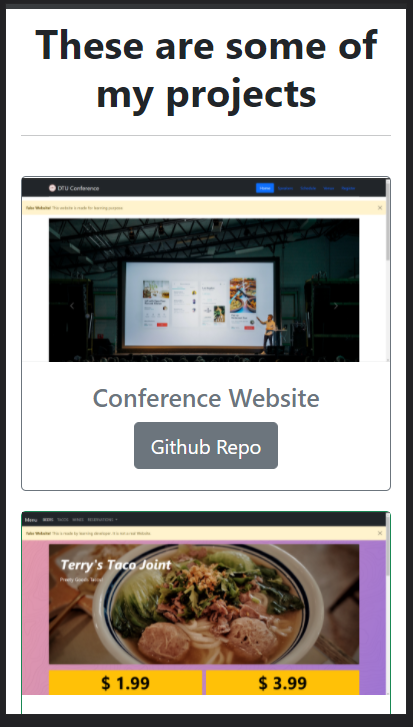
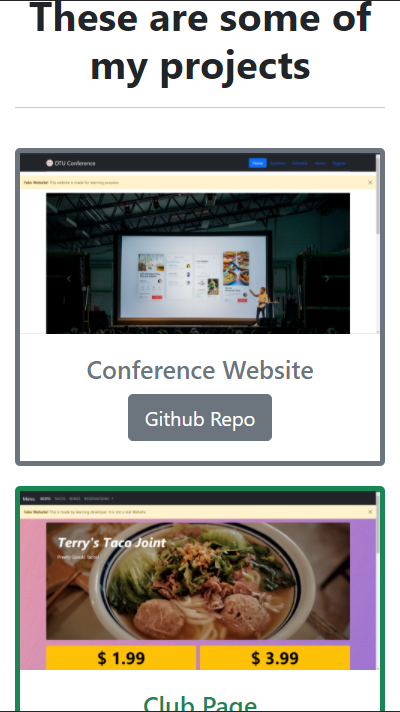
change border size in cards

diff --git a/index.html b/index.html
@@ -62,7 +62,7 @@
             </div>
 
             <div class=" col-xl-6">
-                <div class="card border-secondary">
+                <div class="card border-secondary border-4">
                     <img src="imgs/Conference-w-1.png" class=" img-fluid" alt="..." >
                     <div class="card-body text-secondary">
                         <h5 class="card-title">Conference Website</h5>
@@ -72,7 +72,7 @@
             </div>
 
             <div class=" col-xl-6">
-                <div class="card border-success" >
+                <div class="card border-success border-4" >
                     <img src="imgs/ResponsiveWebsite-w-1.png" class=" img-fluid" alt="..." >
                     <div class="card-body text-success">
                         <h5 class="card-title">Club Page</h5>
@@ -82,7 +82,7 @@
             </div>
 
             <div class=" col-xl-6">
-                <div class="card border-primary" >
+                <div class="card border-primary border-4" >
                     <img src="imgs/MyTunes-w-1.png" class=" img-fluid" alt="..." >
                     <div class="card-body text-primary">
                         <h5 class="card-title">Music Subcription Page</h5>
@@ -92,7 +92,7 @@
             </div>
 
             <div class=" col-xl-6">
-                <div class="card border-info" >
+                <div class="card border-info border-4" >
                     <img src="imgs/LandingPage-1.png" class=" img-fluid" alt="..." >
                     <div class="card-body text-info">
                         <h5 class="card-title">Landing Page</h5>
@@ -102,7 +102,7 @@
             </div>
 
             <div class=" col-xl-6">
-                <div class="card border-dark" >
+                <div class="card border-dark border-4" >
                     <img src="imgs/ParallaxWebsite-4.png" class=" img-fluid" alt="..." >
                     <div class="card-body text-dark">
                         <h5 class="card-title">Parallex Page</h5>
@@ -112,7 +112,7 @@
             </div>
 
             <div class=" col-xl-6">
-                <div class="card border-warning" >
+                <div class="card border-warning border-4" >
                     <img src="imgs/Photo-w-1.png" class=" img-fluid" alt="..." >
                     <div class="card-body text-warning">
                         <h5 class="card-title">Photography Page</h5>
